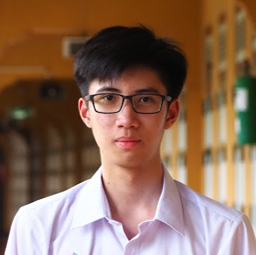
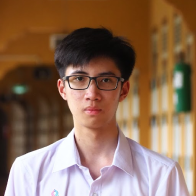
feat: Advisor photos

diff --git a/src/pages/about.tsx b/src/pages/about.tsx
@@ -186,7 +186,7 @@ const ContributeSection = () => {
   return (
     <Section>
       <Header
-        icon={<MaterialIcon icon="waving_hand" allowCustomSize />}
+        icon={<MaterialIcon icon="handshake" allowCustomSize />}
         text={t("contribute.title")}
       />
       <p>
@@ -223,9 +223,7 @@ const ContributeSection = () => {
           .
         </Trans>
       </p>
-      <p>
-        {t("contribute.contributorsList")}
-      </p>
+      <p>{t("contribute.contributorsList")}</p>
       <ul className="layout-grid-cols-6">
         <li>
           <a
@@ -429,19 +427,24 @@ const Developers: NextPage = (): JSX.Element => {
         th: "สุพรรณี สุพีรัตน์",
         "en-US": "Supannee Supeerath",
       },
+      profile: "/images/developers/supannee.png",
       jobDescs: [
         {
           th: "ที่ปรึกษา",
           "en-US": "Advisor",
         },
       ],
-      contacts: [{ type: "Email", url: "mailto:supannee@sk.ac.th" }],
+      contacts: [
+        { type: "Email", url: "mailto:supannee@sk.ac.th" },
+        { type: "Phone", url: "tel:+66898821951" },
+      ],
     },
     {
       name: {
         th: "อติพล สุกฤษฎานนท์",
         "en-US": "Atipol Sukrisadanon",
       },
+      profile: "/images/developers/atipol.png",
       jobDescs: [
         {
           th: "ที่ปรึกษา",
